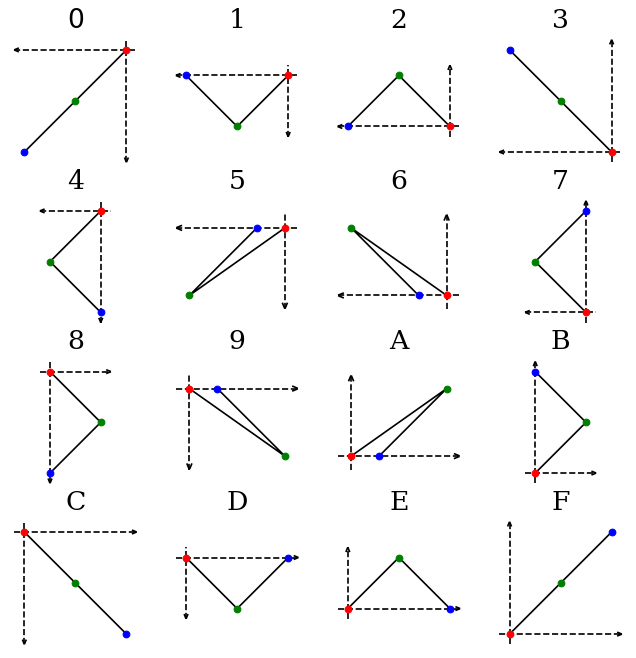
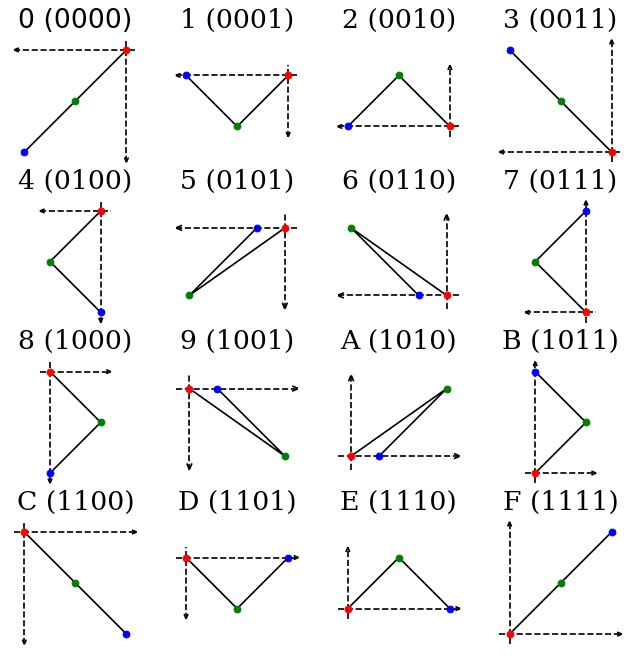
New user and image

diff --git a/print_classes.py b/print_classes.py
@@ -1,0 +1,74 @@
+from utilities import *
+
+for subdir_name in os.listdir("marker_count"):
+    
+    for csv_file in os.listdir("marker_count/" + subdir_name):
+
+        if ".csv" not in csv_file:
+            
+            continue  
+
+        if "_all_percent_1_" not in csv_file:
+            
+            continue 
+
+        if "_all_percent_1_5" in csv_file:
+            
+            continue 
+
+        if "_all_percent_1_15" in csv_file:
+            
+            continue 
+
+        file_csv = pd.read_csv("marker_count/" + subdir_name + "/" + csv_file, sep = ";", index_col = False)
+ 
+        colname_sum = dict()
+
+        sumsums = 0
+
+        for colname in file_csv.columns[3:]:
+
+            colname_sum[colname] = sum(file_csv[colname])
+
+            sumsums += colname_sum[colname]
+
+        set_used = set()
+
+        suma = 0
+
+        for val in dict(sorted(colname_sum.items(), key = lambda item: item[1], reverse = True)):
+
+            if len(set_used) == 200:
+
+                break
+
+            else:
+
+                set_used.add(val)  
+
+                suma += colname_sum[val]
+
+        print(csv_file, len(file_csv.columns[3:]), suma, sumsums, suma / sumsums) 
+
+        used_dict = []
+        for colname in set_used:
+            used_dict.append((colname_sum[colname] / sumsums, colname_sum[colname], colname))
+        used_dict = sorted(used_dict)
+        for val in used_dict:
+            if val[0] > 10 ** -2:
+                print(val)
+
+        minisum = (1000000, 1, 1, 1)
+        maxisum = (-1000000, 1, 1, 1)
+        for ix in range(len(file_csv)):
+            totalsum = 0
+            for colname in file_csv.columns[3:]:
+                totalsum += file_csv[colname][ix]
+            somesum = 0
+            for colname in set_used:
+                somesum += file_csv[colname][ix] 
+            if totalsum != 0 and somesum / totalsum > maxisum[0]:
+                maxisum = (somesum / totalsum, somesum, totalsum, ix)
+            if totalsum != 0 and somesum / totalsum < minisum[0]:
+                minisum = (somesum / totalsum, somesum, totalsum, ix)
+        print(minisum, maxisum)

diff --git a/illustrate.py b/illustrate.py
@@ -21,7 +21,10 @@ def draw_dx(o, x0, y0, dx1, dx2, dy1, dy2):
     plt.rcParams["mathtext.fontset"] = "dejavuserif"
     plt.axis("equal") 
     plt.axis("off") 
-    plt.title(str(hex(o)).replace("0x", "").capitalize())
+    binstr = str(bin(o).replace("0b", ""))
+    while len(binstr) < 4:
+        binstr = "0" + binstr
+    plt.title(str(hex(o)).replace("0x", "").capitalize() + " (" + binstr + ")")
     minx = min(min(x0, x1), x2) - 0.2
     miny = min(min(y0, y1), y2) - 0.2
     maxx = max(max(x0, x1), x2) + 0.2
